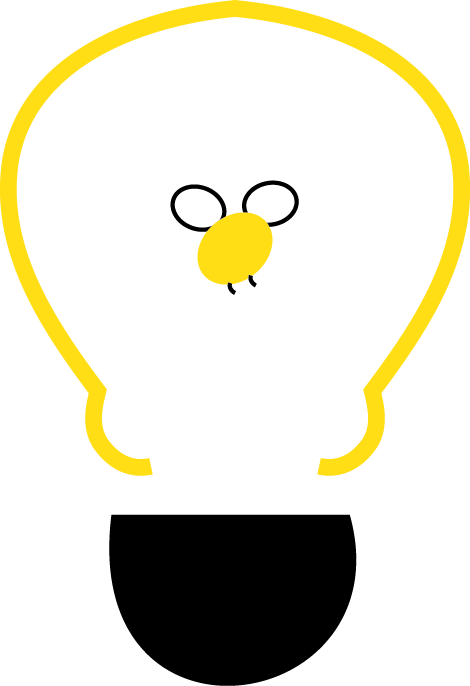
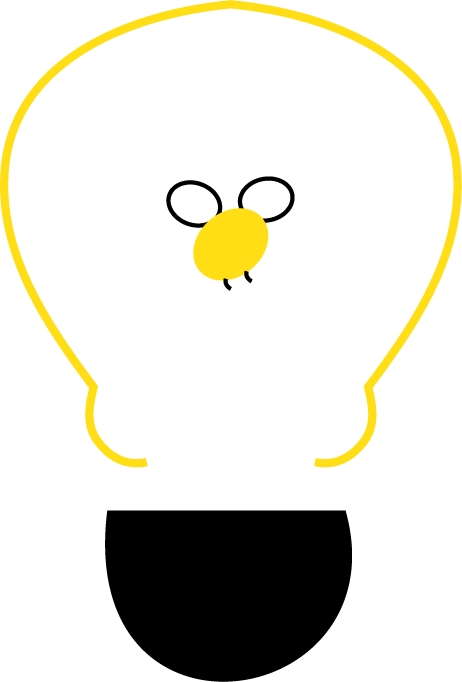
updating index page images

diff --git a/index.php b/index.php
@@ -32,7 +32,7 @@
 	<!- end CTA1 div ->
 
 	<div class="CTA2"><p>
-	<img src="includes/images/comingSoon.png" alt="coming soon phone app">
+	<img src="includes/images/comingSoon(flipped).png" alt="coming soon phone app">
 	</p></div>
 	<!- end CTA2 div ->
 </div>
